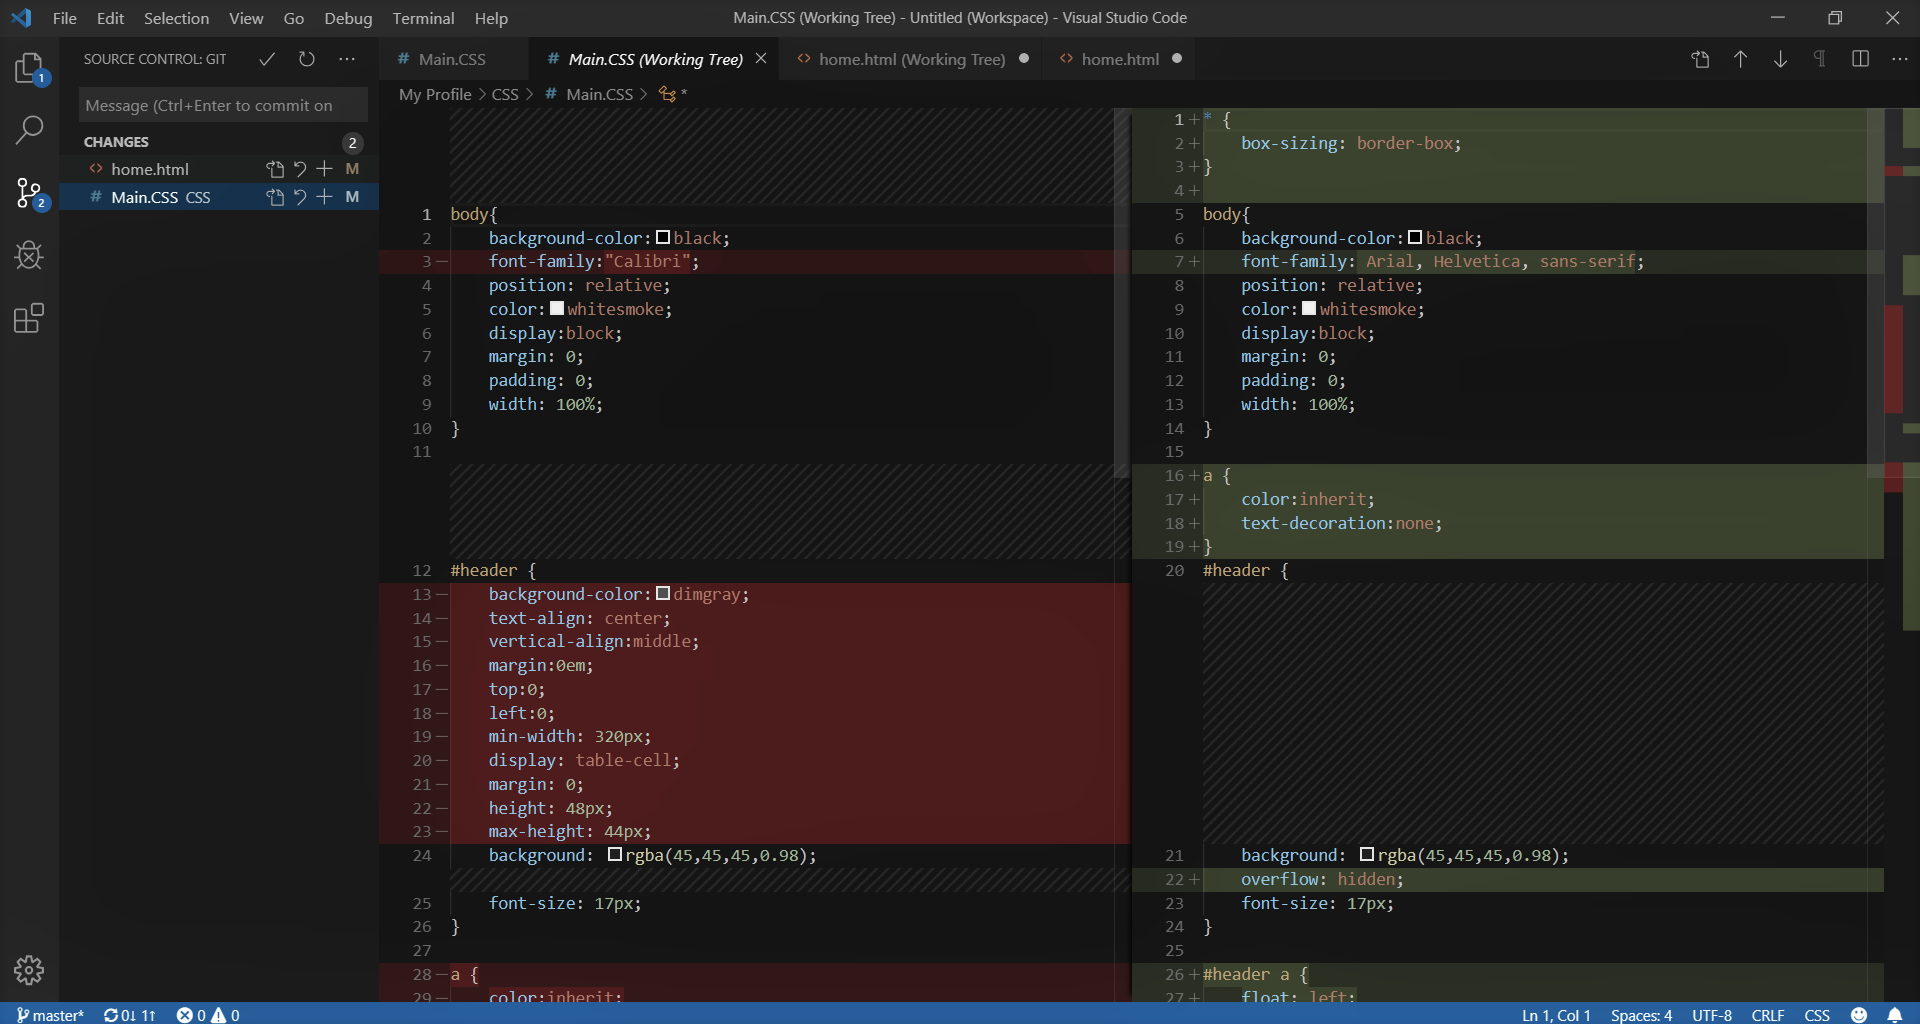
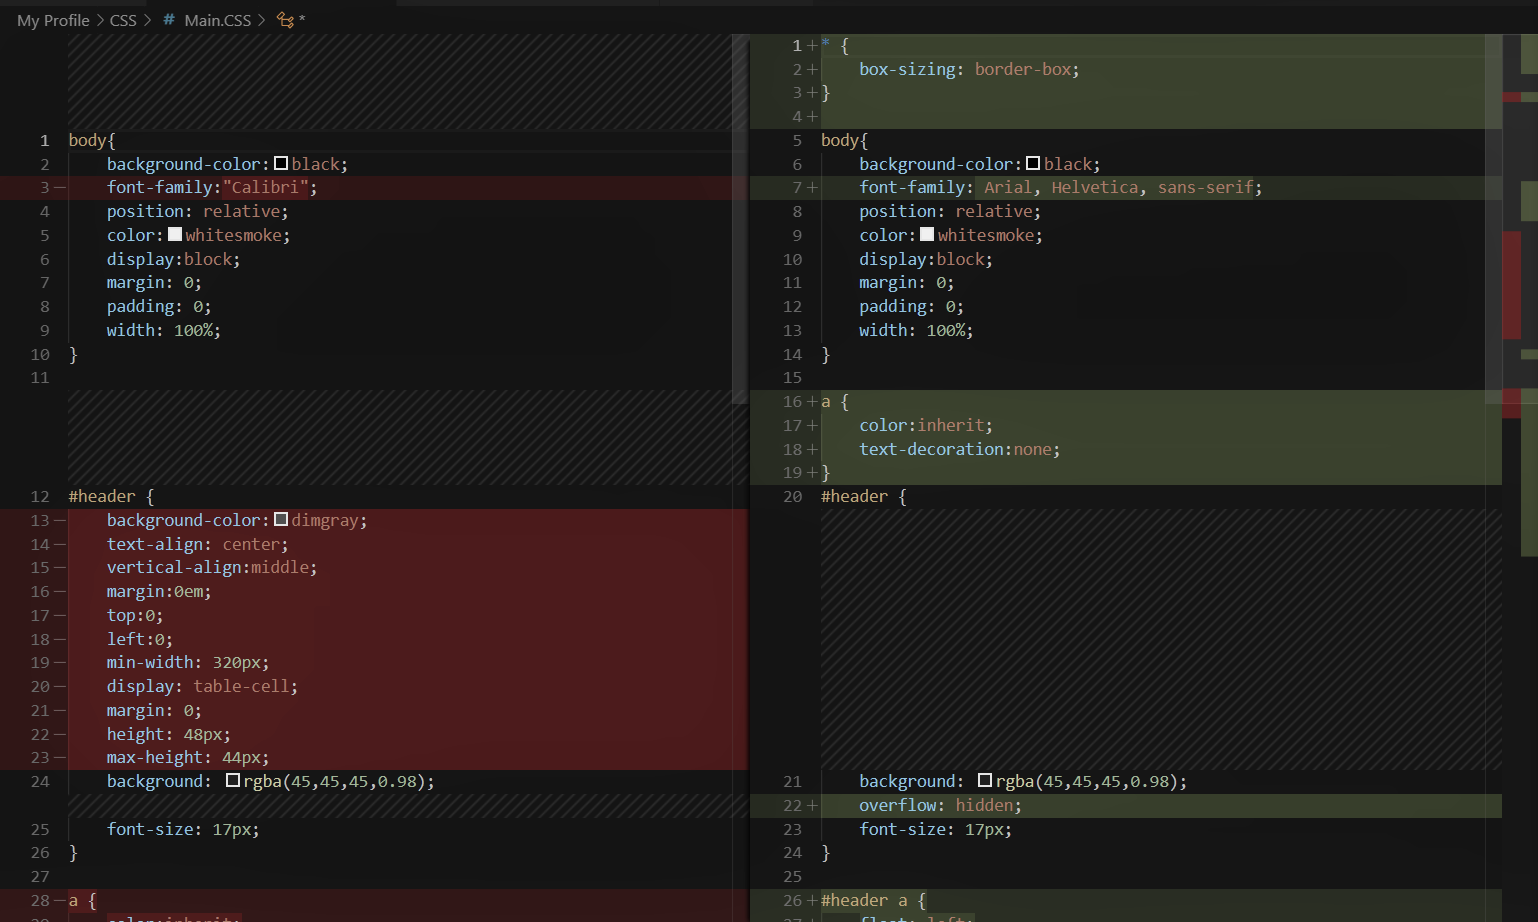
commit 25 oct

diff --git a/home.html b/home.html
@@ -1,25 +1,59 @@
 <!DOCTYPE html>
 <html>
     <head>
-        <title>Profile of Hemal Patel</title>
+        <title>Hemal Patel</title>
+        <link rel="shortcut icon" type="image/x-icon" href="Images\favicon.ico" />
         <meta name="viewport" content="width=device-width, initial-scale=1">
         <meta charset="utf-8">
         <link href="CSS\Main.CSS" type="text/css" rel="stylesheet">
     </head>
     <body>
         <!-- header start-->
-        <div id="header">
+        <header id="header">
             <a href="home.html">Home</a> 
-            <a href="home.html#career">Career Overview</a> 
-            <a href="home.html#career">Experience</a> 
-            <a href="home.html#myskills">Skills</a>
+            <a href="home.html#experience">Experience</a>
+            <a href="home.html#skills">Skills</a>
+            <a href="home.html#education">Education</a> 
             <a href="home.html#contact">Contact Me</a> 
-        </div>
-        <!-- header end -->
-        <!--First section start-->
-        <div id="first-section">
-            
-        </div>
-        <!--First section end -->
+        </header>
+        <!-- header end-->
+        <section id="main-section">
+            <div class = "main" id = "intro">
+                <div class="content">
+                    <div class = "data-section">
+                        <img src = "Images/mypic.jpg">
+                        <h1>Hemal Patel</h1>
+                        <div id = "describe">
+                            <h2>HELLO.</h2>
+                            <p class="profile-keyword"><b>Skilled Web/Database developer from Hamilton Ontario with strong experience in designing and building Web and Database
+                            applications using variety of languages tools and techniques. </b>
+                            </p>
+                        </div>
+                    </div>
+                </div>
+            </div>
+            <div class = "main" id = "experience">
+                <div class="content">
+                    This should be experience
+                </div>
+            </div>
+            <div class = "main" id = "skills">
+                <div class="content">
+                    This should be skills
+                </div>
+            </div>
+            <div class = "main" id = "education">
+                <div class="content">
+                    <div class ="data-section">
+                        This should be education
+                    </div>
+                </div>
+            </div>
+            <div class = "main" id = "contact">
+                <div class="content">
+                    This should be contact
+                </div>
+            </div>
+        </section>
     </body>
 </html>

diff --git a/CSS/Main.CSS b/CSS/Main.CSS
@@ -6,27 +6,32 @@
 
 body{
     background-color:black;
-    font-family: Arial, Helvetica, sans-serif;
+    font-family: Verdana,sans-serif;
     color:whitesmoke;
     display:block;
     margin: 0;
     padding: 0;
-    width: 100%;
 }
 
 a {
     color:inherit;
     text-decoration:none !important;
 }
-#header {
+header {
     background: rgba(45,45,45,0.98);
-    overflow: auto;
+    overflow: hidden;
     font-size: 17px;
     width: 100%;
+    height: 50px;
+    position: fixed;
     text-align: center;
+    top:0;
+    padding-left: 20%;
+    padding-right: 20%;
+    z-index: 1;
 }
 
-#header a {
+header a {
     float:left;
     padding:10pt;
     text-align: center;
@@ -41,12 +46,64 @@ a:hover {
     background-color: grey;
 }
 
-#first-section {
-    background-image: url("images\first-section.png");
+#main-section {
+    height: 100%;
+    width:100%;
+}
+
+.content {
+    margin-top:50px;
+    display: inline-block;
+    vertical-align: middle;
+    height: 100vh;
+    width:100%;
+    position: relative;
+}
+
+#intro {
+    background-color: #1fc8db;
+    background-image: linear-gradient(141deg, #9fb8ad 0%, #1fc8db 51%, #2cb5e8 75%);
+    color:black;
+}
+
+.data-section {
+    margin: 0;
+    text-align: center;
+    position: absolute;
+    top: 30%;
+    left: 37%;
+    transform: translate(-30%, -25%);
+}
+
+
+.data-section img{
+    max-width: 150px;
+    max-height: 150px;
+    height: 100%;
+    width: 100%;
+    border-radius: 50%;
+    transition: .5s ease;
+}
+
+#describe {
+    display: flex;
+    flex-wrap: wrap;
+    padding:0px;
+    text-align: justify;
+}
+
+#describe p {
+    margin:0px;
+    font-size:20px;
+}
+
+.profile-keyword, .profile-keyword-dot {
+    text-align: left;
 }
 
 @media screen and (max-width: 500px) {
-    .header a {
+    
+    #header a {
       float: none;
       display: block;
       text-align: left;
